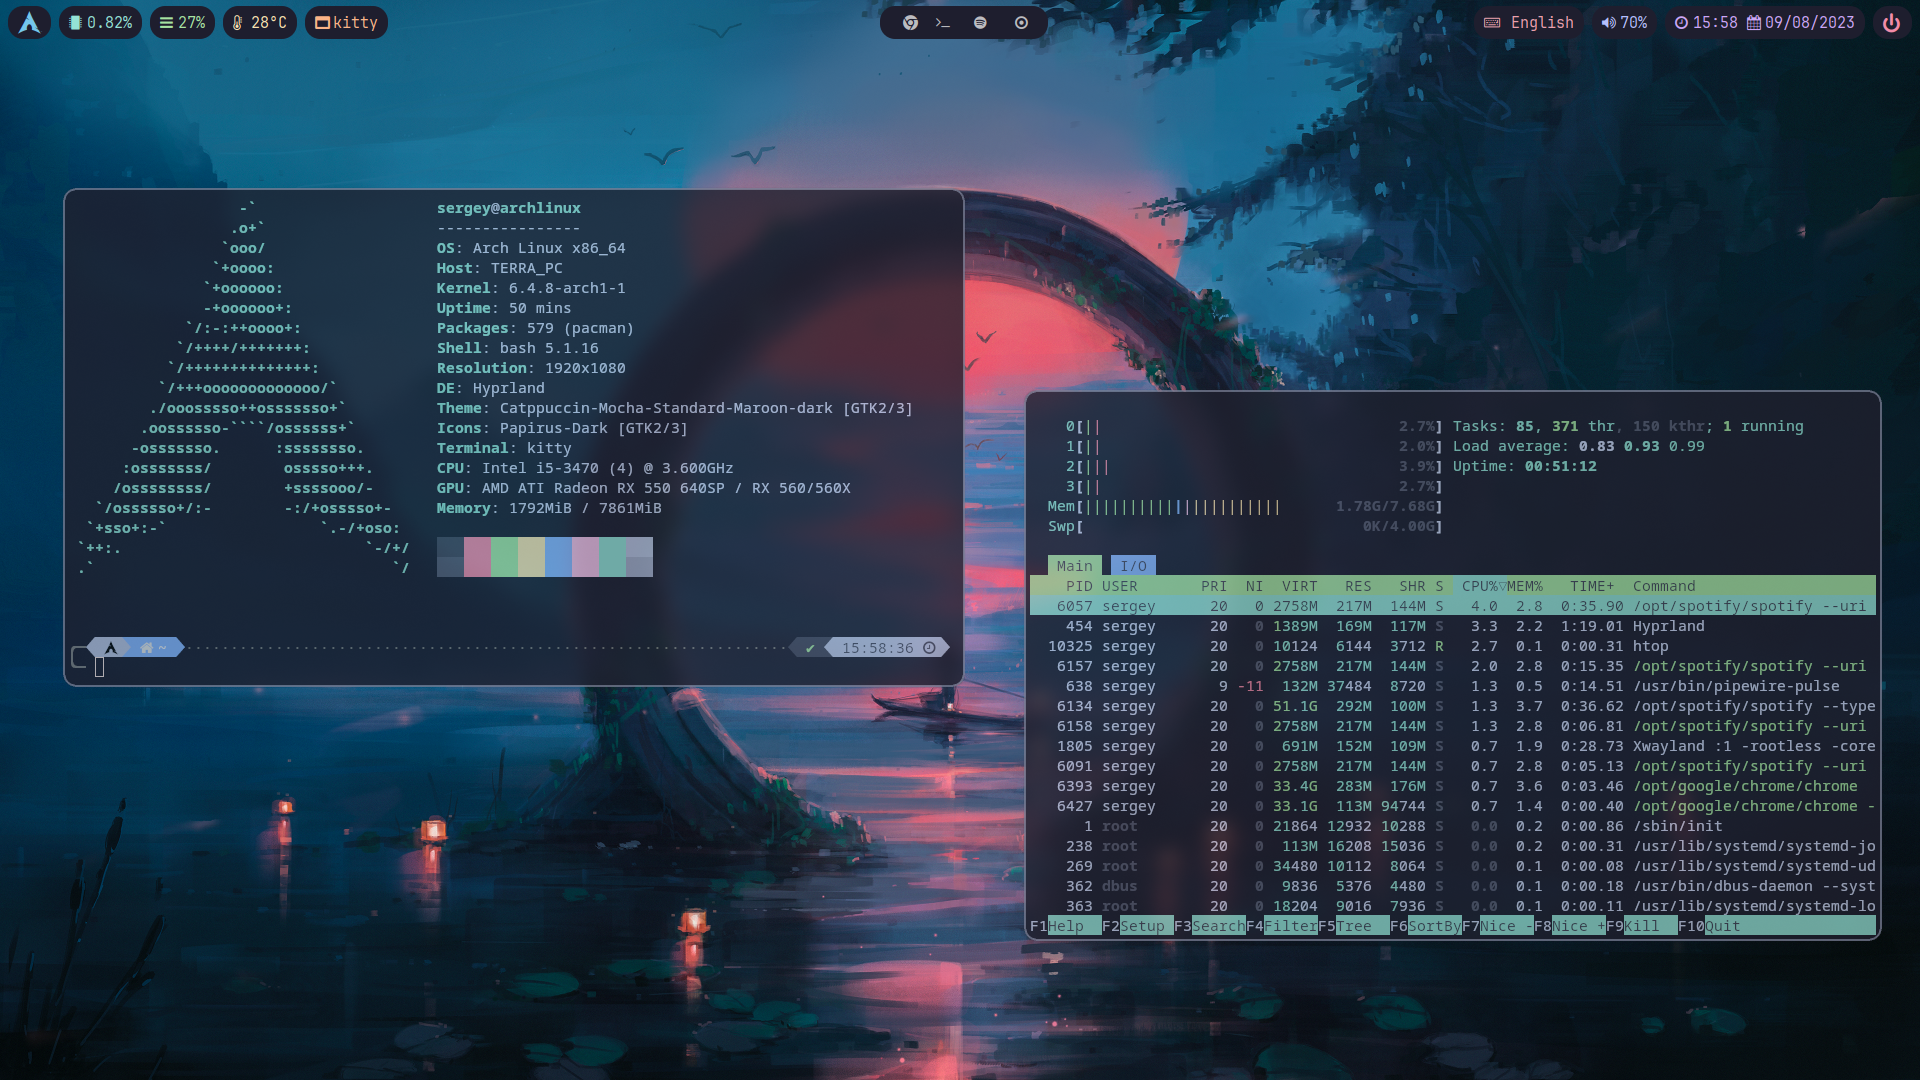
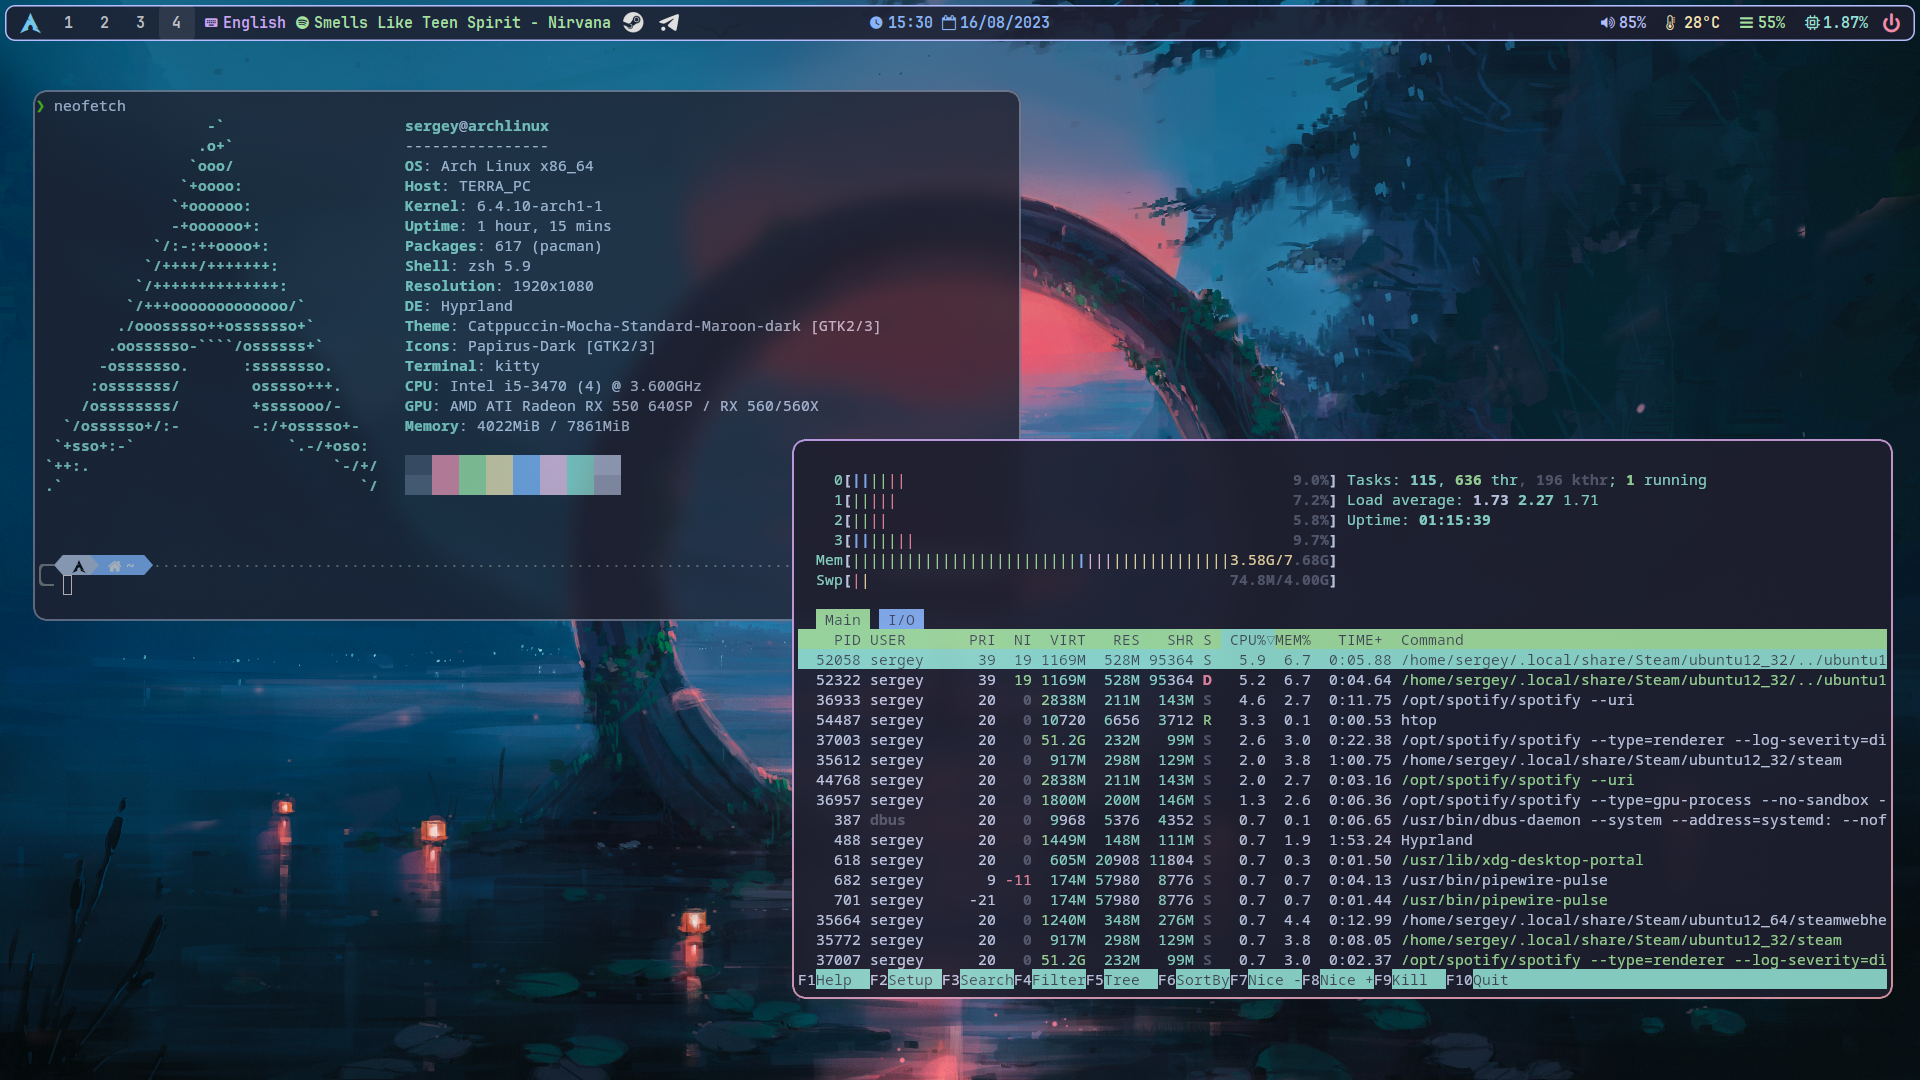
new waybar, cliphist

Changed region(s): [[0.0, 0.0, 1.0, 0.9472]]

diff --git a/config/waybar/style.css b/config/waybar/style.css
@@ -1,120 +1,91 @@
 @import "mocha.css";
+
 * {
-  border: none;
-  border-radius: 15px;
-  font-family: "JetbrainsMono Nerd Font";
-  font-size: 15px;
-  min-height: 10px;
+  font-family: "JetBrains Mono Nerd Font";
+  font-size: 14.5px;
+  font-weight: bold;
 }
 
 window#waybar {
-  background: transparent;
+  border-radius: 10px;
+  border: 1.5px solid @lavender;
+  background: @base;
 }
 
 window#waybar.hidden {
   opacity: 0.2;
 }
 
+#clock,
+#battery,
+#cpu,
+#language,
+#window,
+#memory,
+#disk,
+#temperature,
+#backlight,
+#network,
+#pulseaudio,
+#wireplumber,
+#tray {
+  padding: 0 10px;
+}
+
 #workspaces {
-  margin-top: 6px;
-  margin-left: 8px;
-  padding-left: 10px;
-  padding-right: 10px;
   color: @peach;
-  background: @base;
+}
+
+#workspaces button.active {
+  background: rgba(255, 255, 255, 0.08);
 }
 
 #window {
-  margin-top: 6px;
-  margin-left: 8px;
-  padding-left: 10px;
-  padding-right: 10px;
   color: @peach;
-  background: @base;
 }
 
 #pulseaudio {
-  margin-top: 6px;
-  margin-left: 8px;
-  padding-left: 10px;
-  padding-right: 10px;
   color: @lavender;
-  background: @base;
 }
 
 @keyframes blink {
   to {
-    background-color: @base;
+    background-color: @mantle;
     color: @text;
   }
 }
 
+#custom-player {
+  color: @green;
+}
+
 #clock {
-  margin-top: 6px;
-  margin-left: 8px;
-  padding-left: 10px;
-  padding-right: 10px;
-  color: @mauve;
-  background: @base;
+  color: @blue;
 }
 
 #memory {
-  margin-top: 6px;
-  margin-left: 8px;
-  padding-left: 10px;
-  padding-right: 10px;
   color: @green;
-  background: @base;
 }
 #cpu {
-  margin-top: 6px;
-  margin-left: 8px;
-  padding-left: 10px;
-  padding-right: 10px;
   color: @teal;
-  background: @base;
 }
 #temperature {
-  margin-top: 6px;
-  margin-left: 8px;
-  padding-left: 10px;
-  padding-right: 10px;
   color: @yellow;
-  background: @base;
 }
 #language {
-  margin-top: 6px;
-  margin-left: 8px;
-  padding-left: 10px;
-  padding-right: 10px;
-  color: @maroon;
-  background: @base;
+  color: @mauve;
 }
 #tray {
-  margin-top: 6px;
-  margin-left: 8px;
-  padding-left: 10px;
-  padding-right: 10px;
-  background: @base;
 }
 
 #custom-launcher {
-  font-size: 24px;
-  margin-top: 6px;
-  margin-left: 8px;
-  padding-left: 10px;
-  padding-right: 5px;
+  font-size: 22px;
+  padding: 0 5px 0 15px;
   color: @sapphire;
-  background: @base;
 }
 
 #custom-power {
   font-size: 20px;
-  margin-top: 6px;
-  margin-left: 8px;
-  margin-right: 8px;
-  padding-left: 10px;
-  padding-right: 5px;
+  padding: 0 20px 0 5px;
   color: @red;
-  background: @base;
 }

diff --git a/config/waybar/mocha.css b/config/waybar/mocha.css
@@ -5,7 +5,7 @@
 *
 */
 
-@define-color base   #1e1e2e;
+@define-color base   rgba(30, 30, 46, 0.85);
 @define-color mantle #181825;
 @define-color crust  #11111b;
 
